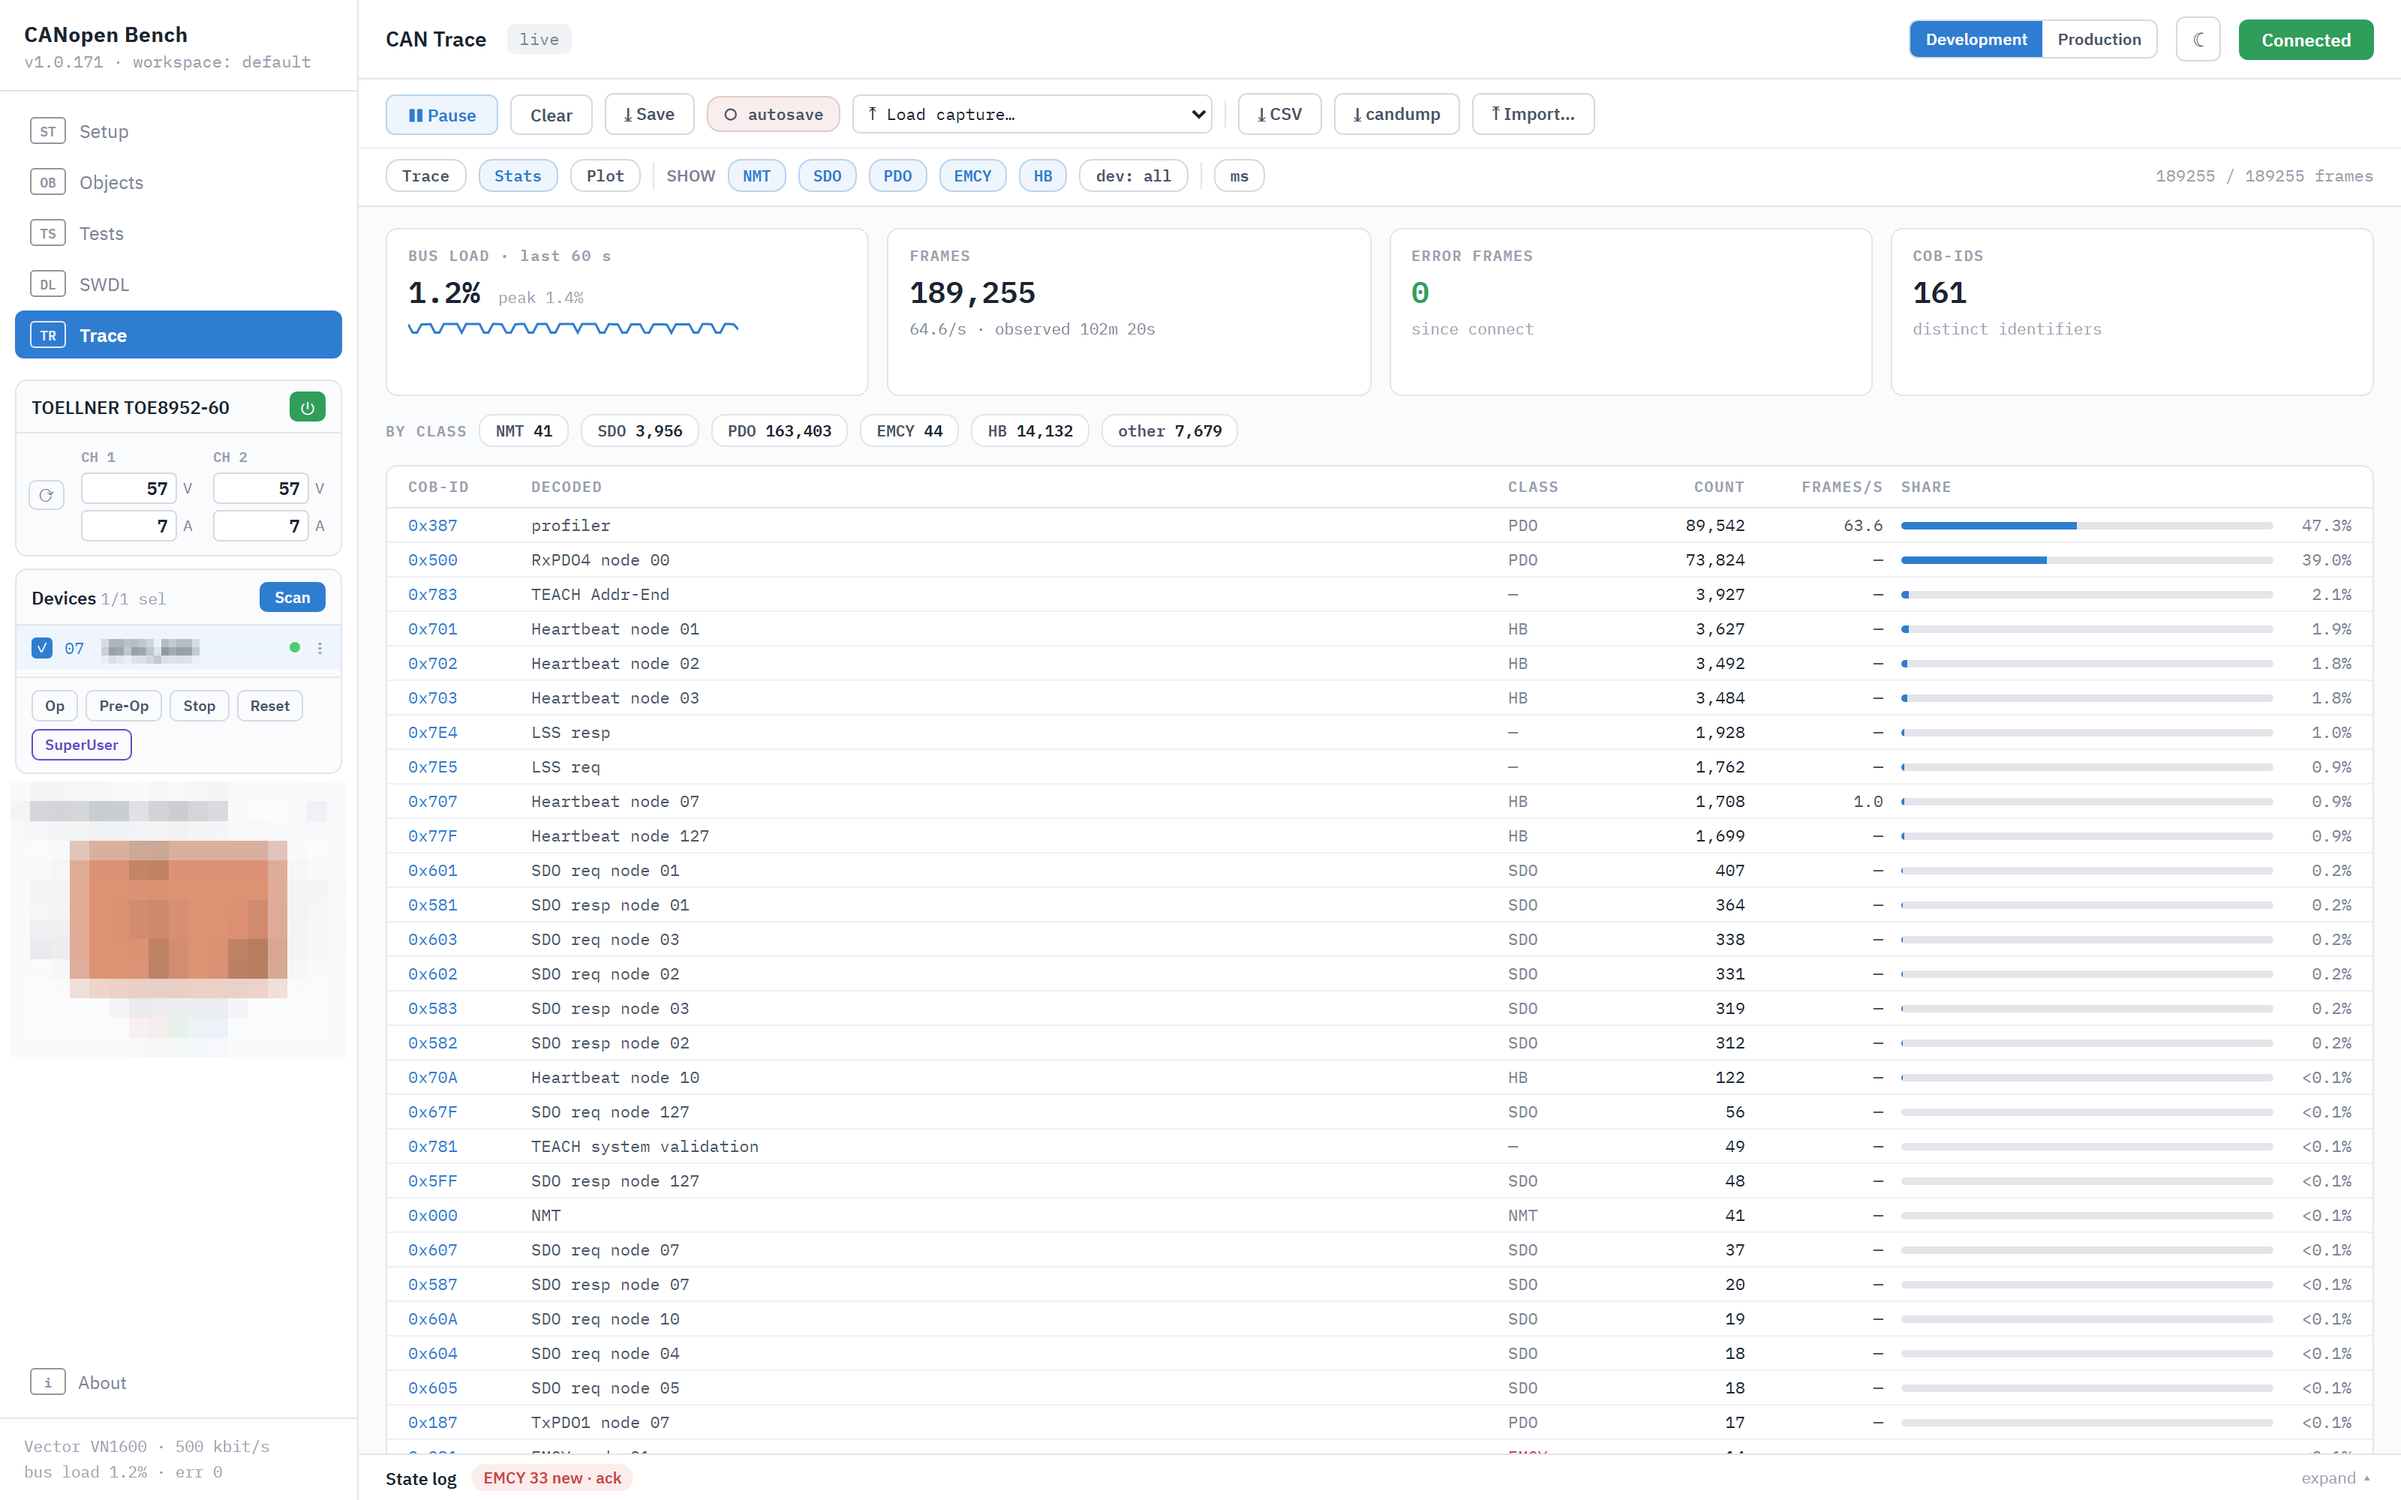
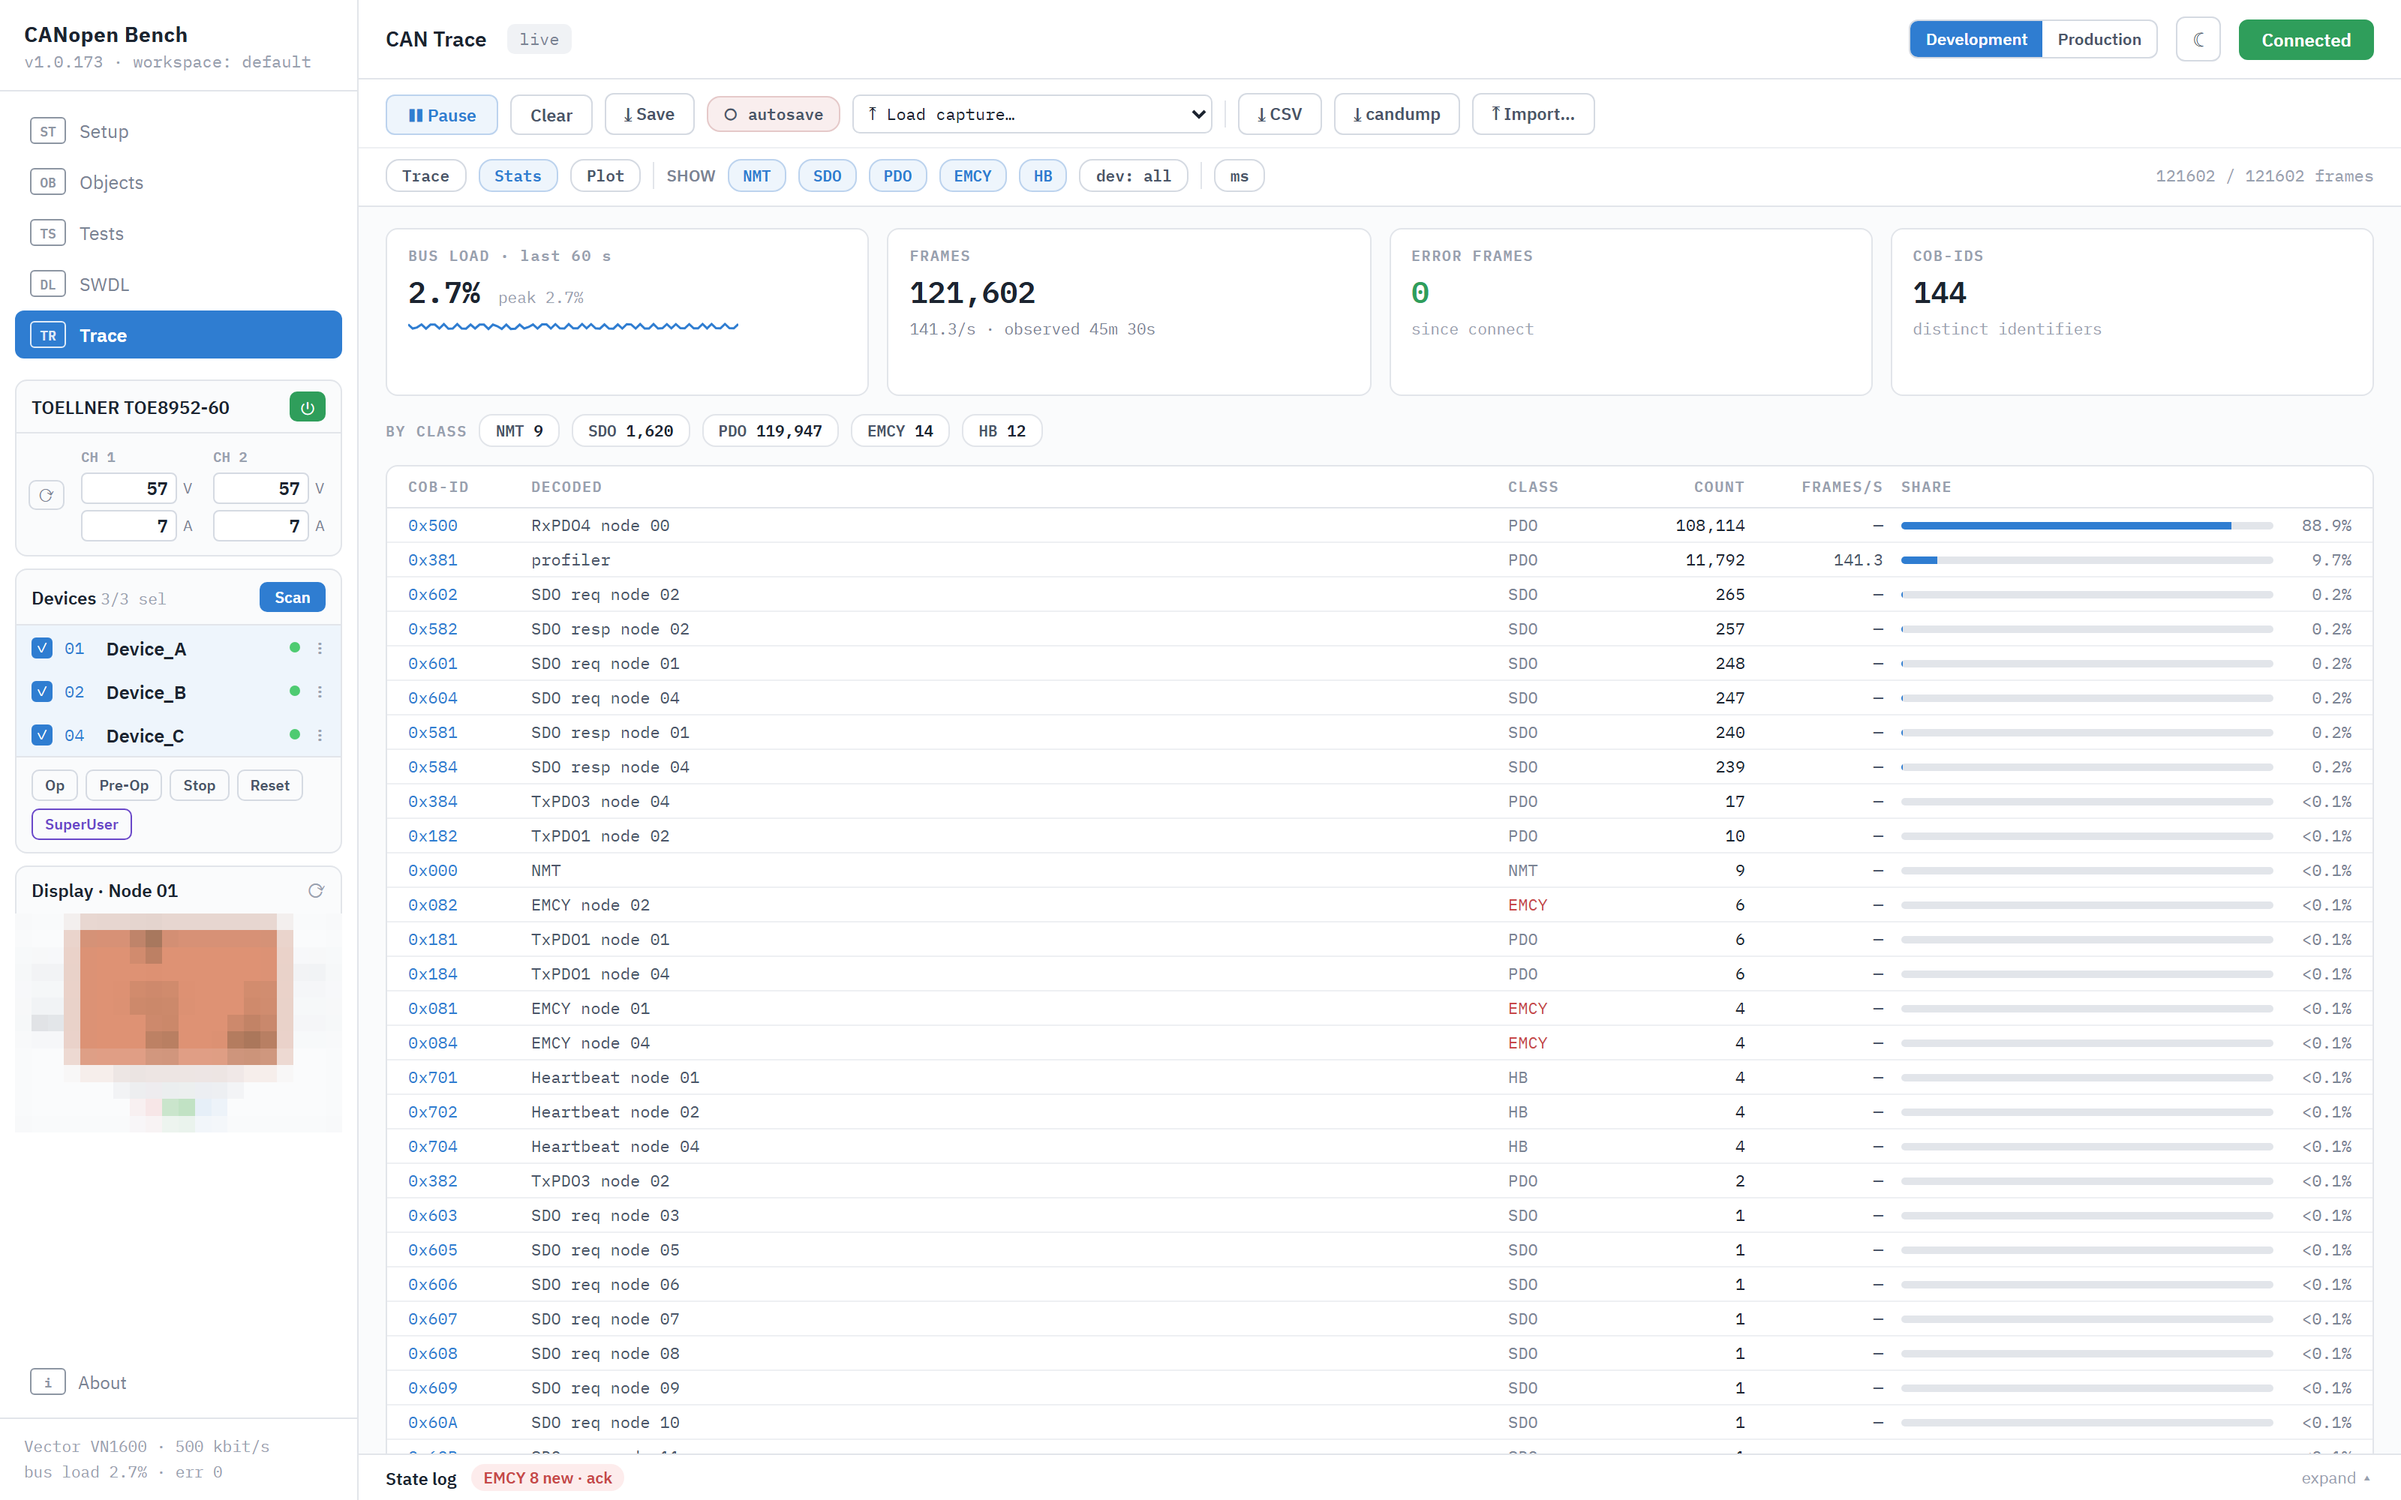
README: SWDL screenshot
Panel and SWDL share the gallery's last row; Stats and profiler are shot again with three devices.

diff --git a/README.md b/README.md
@@ -106,13 +106,15 @@ and every access shows up in the Trace like real bus traffic.
 
 ## Screenshots
 
-The first two are from a real bench with a vendor plugin installed —
-device name, display and two handler names pixelated. The rest is demo
-mode, as `pip install canopen-bench` gives it. Some of what the first two
-show is the plugin's, not the core's: the runtime profiler is a
-statistics block it adds, the display card in the sidebar is its device
-panel, and frame names beyond CANopen are its trace decoders
-(`docs/extending.md` has the hooks).
+Stats, profiler and SWDL are from a real bench with a vendor plugin
+installed — device, product and a few handler names replaced with
+generic ones, the display pixelated. Tests and Objects are demo mode, as `pip install
+canopen-bench` gives it. Some of what the real bench shows is the
+plugin's, not the core's: the runtime profiler is a statistics block it
+adds, the display card in the sidebar is its device panel, frame names
+beyond CANopen are its trace decoders, and the firmware format and
+download protocol are its SWDL strategy (`docs/extending.md` has the
+hooks).
 
 <table>
   <tr>
@@ -148,12 +150,19 @@ panel, and frame names beyond CANopen are its trace decoders
     </td>
   </tr>
   <tr>
-    <td colspan="2" align="center">
+    <td width="50%">
       <picture>
         <source media="(prefers-color-scheme: dark)" srcset="https://raw.githubusercontent.com/NobseVomBerg/CANopen-Bench/main/docs/img/panel-dark.png">
-        <img width="50%" alt="Object panel: the same objects grouped with names and units" src="https://raw.githubusercontent.com/NobseVomBerg/CANopen-Bench/main/docs/img/panel.png">
+        <img width="100%" alt="Object panel: the same objects grouped with names and units" src="https://raw.githubusercontent.com/NobseVomBerg/CANopen-Bench/main/docs/img/panel.png">
       </picture>
       <br><sub>Objects › Panel: the same objects grouped by a panel file (<code>docs/panel-format.md</code>)</sub>
+    </td>
+    <td width="50%">
+      <picture>
+        <source media="(prefers-color-scheme: dark)" srcset="https://raw.githubusercontent.com/NobseVomBerg/CANopen-Bench/main/docs/img/swdl-dark.png">
+        <img width="100%" alt="Software download: one firmware file to three devices in parallel" src="https://raw.githubusercontent.com/NobseVomBerg/CANopen-Bench/main/docs/img/swdl.png">
+      </picture>
+      <br><sub>SWDL (plugin): one firmware file to three devices in parallel</sub>
     </td>
   </tr>
 </table>
